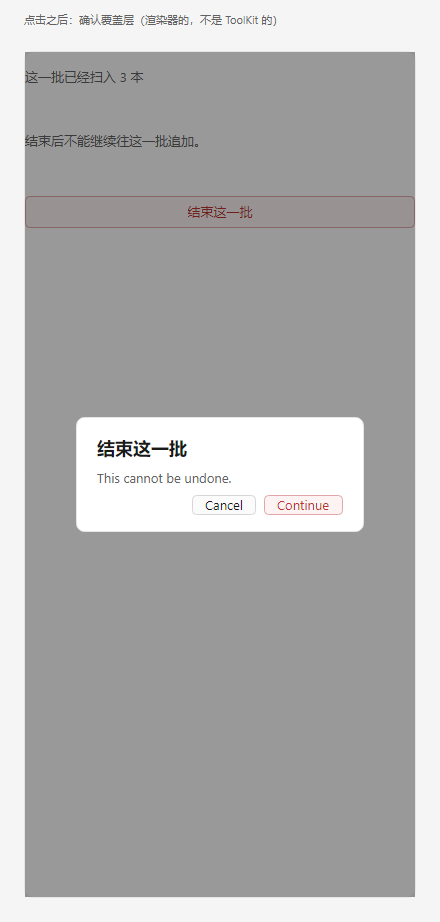
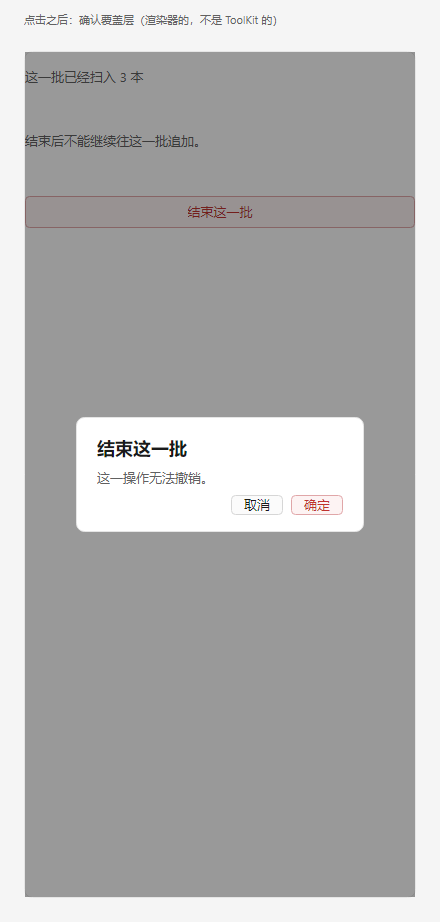
🔧 Fix(toolkit-view-shots): the confirmation dialog speaks the same language as the card behind it
`03-confirm-light.png` shipped a card whose every word is Chinese except the three the
dialog supplies: "This cannot be undone.", "Cancel", "Continue". The renderer is not at
fault -- KitX.axaml:93-103 ships English defaults on purpose, so a host that overrides
nothing still gets a readable dialog rather than a blank one, and HostWindow.cs:82-84
already overrides all three. This host did not.

Shots is a host too. It exists to show what the product looks like, so a screenshot of
the confirmation nobody could call finished has been sitting in the repo since the dialog
was last re-rendered.

The three overrides are copied verbatim from the product host. The fourth one is not
copied and must not be: the title is the label of the button that was clicked, so it
arrives translated already, and these three stay action-neutral because the dialog is
drawn for every dangerous button -- words naming one action would be the question asked
about a different one. That is what KitXDangerTitle used to be ("确定要清空吗？", correct
only because the sample's only dangerous button happened to be "清空记录"), and
HostWindow.cs:76-81 records the reasoning. The comment here points at it rather than
repeating it.

Rendered: two images change, eight are byte-identical to the committed ones --

  01-scanbook-light/dark   A62E1D863DB94245 / 09503F1105DE6D00   unchanged
  02-danger-light/dark     900AF3F69551182B / 0C38EFC4D7B15EF2   unchanged
[…]

Changed region(s): [[0.2068, 0.4859, 0.7386, 0.577]]

diff --git a/KitX Clients/KitX Workflow/KitX.ToolKit.View.Avalonia.Shots/Program.cs b/KitX Clients/KitX Workflow/KitX.ToolKit.View.Avalonia.Shots/Program.cs
@@ -286,6 +286,23 @@ internal static class Program
             Height = SurfaceMetrics.CardHeight + 96,
         };
 
+        // The renderer ships English defaults for the confirmation dialog on purpose: a host that
+        // overrides nothing still gets a readable dialog rather than a blank one (KitX.axaml:93-103).
+        // This tool is a host too, and it has to look like the product does. Without these three
+        // lines `03-confirm` is a card whose every word is Chinese except the three the dialog
+        // supplies -- the first screenshot of a confirmation nobody could call finished, and the
+        // defect looked like the renderer's when it was this file's omission.
+        //
+        // The title is NOT overridden, and must not be: it is the label of the button that was
+        // clicked (SurfaceCard.cs), so it arrives translated already. These three stay
+        // action-neutral for the same reason -- this dialog is drawn for every dangerous button, and
+        // words naming one action would be the question asked about a different one. See
+        // HostWindow.cs:70-81, which had to learn this the hard way, and copy the fourth line at
+        // your peril.
+        window.Resources["KitXDangerBody"] = "这一操作无法撤销。";
+        window.Resources["KitXDangerConfirm"] = "确定";
+        window.Resources["KitXDangerCancel"] = "取消";
+
         window.Show();
 
         content.Measure(Size.Infinity);
